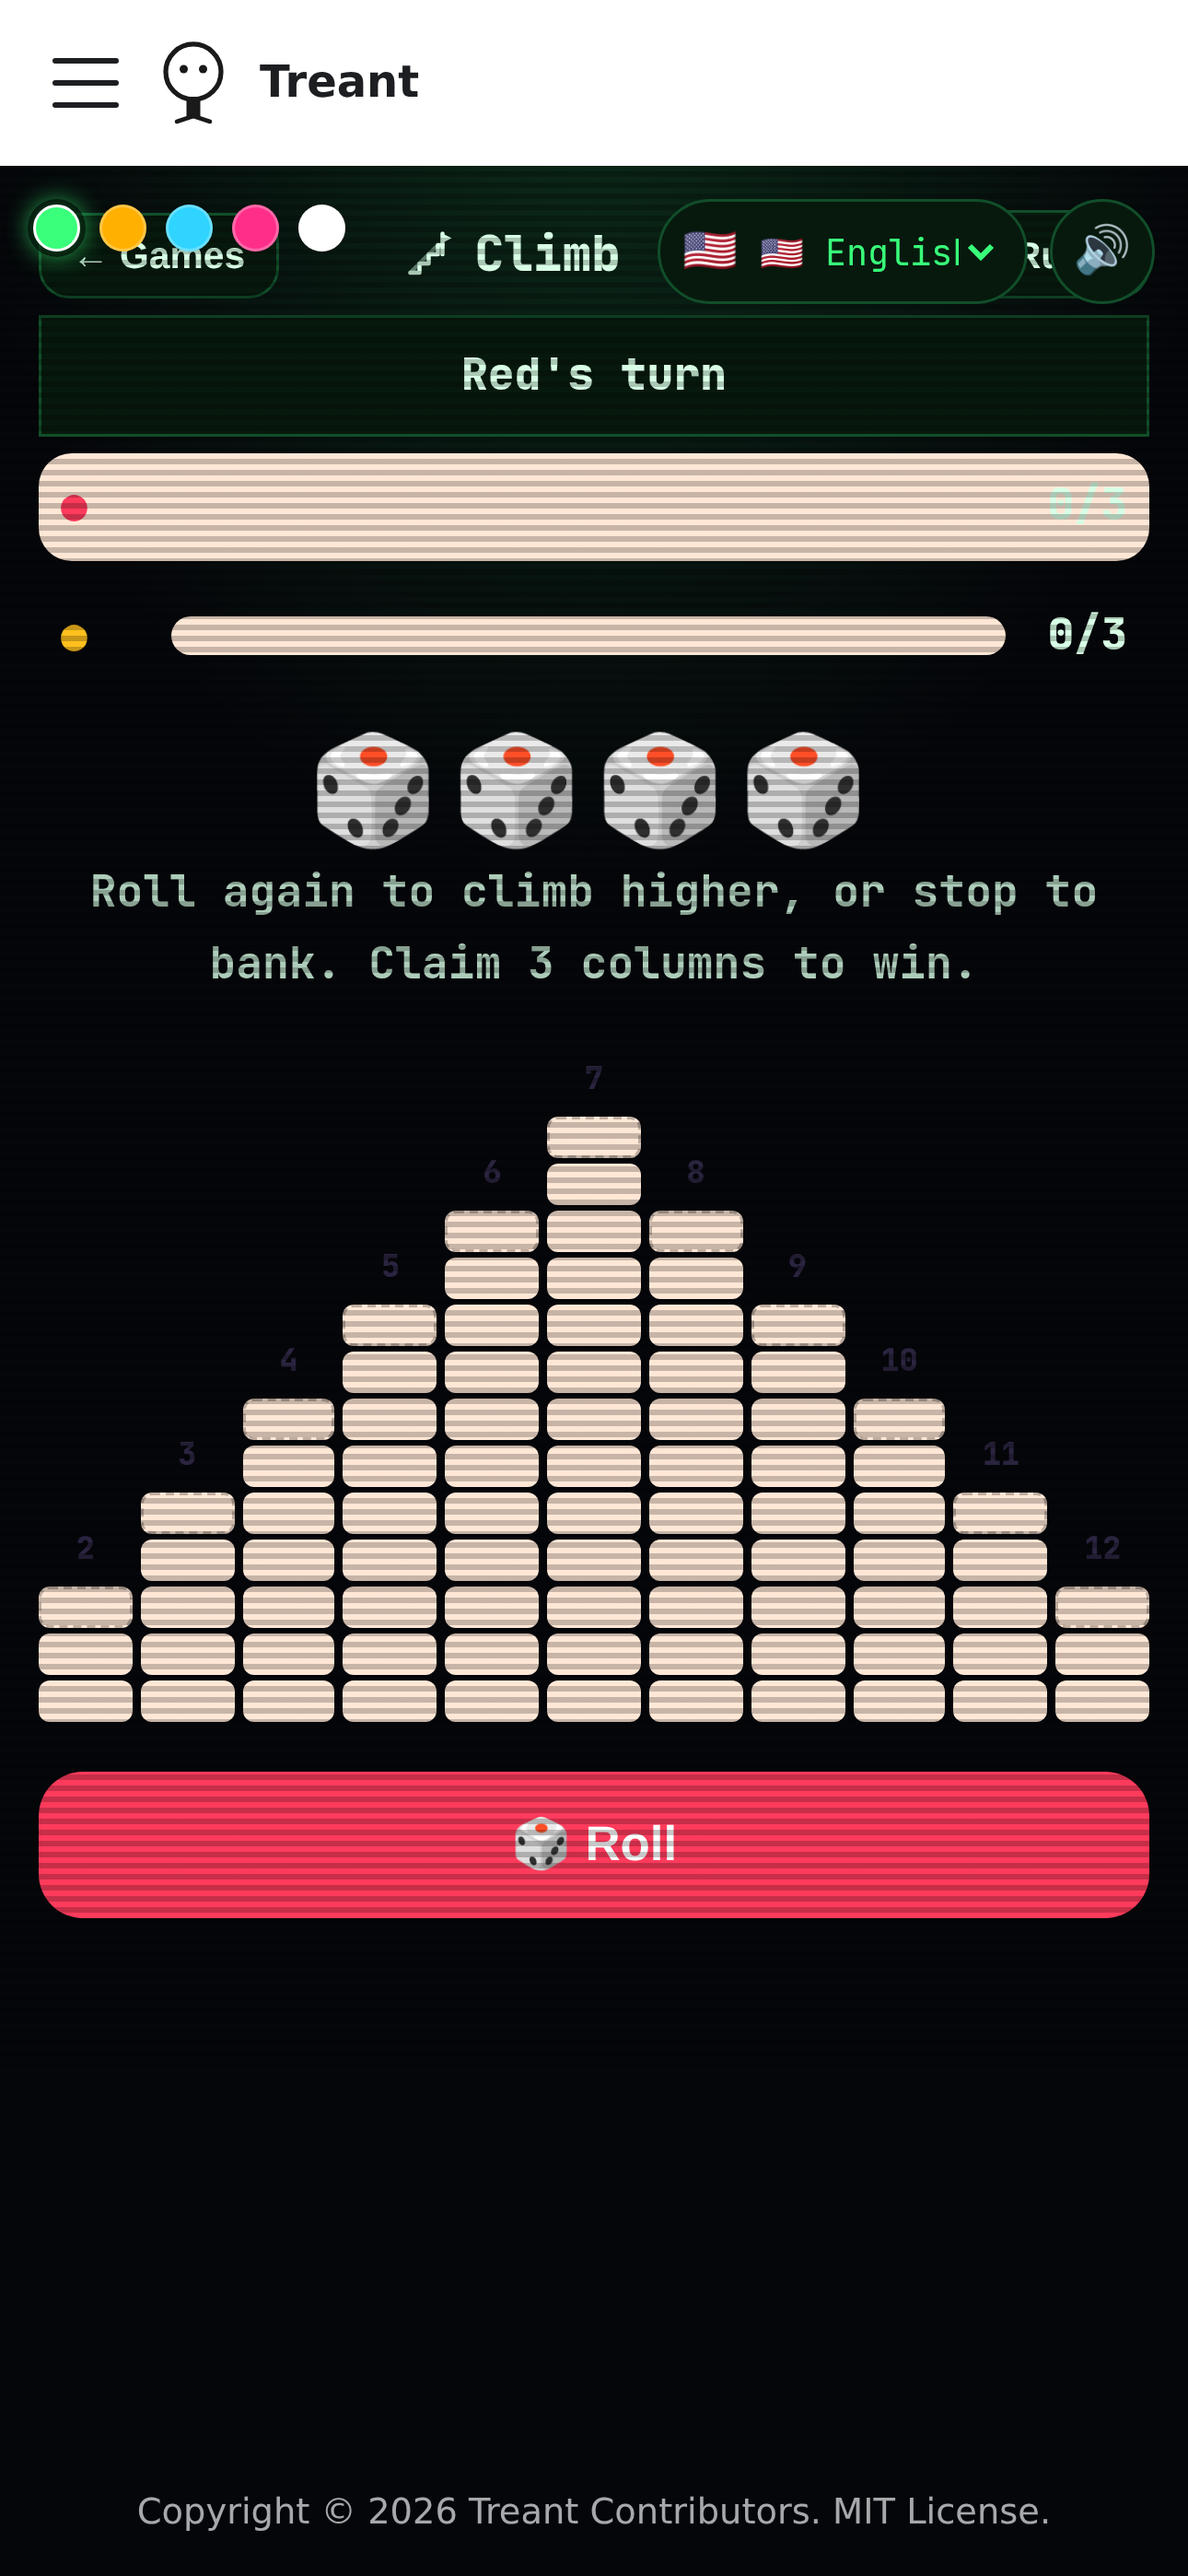
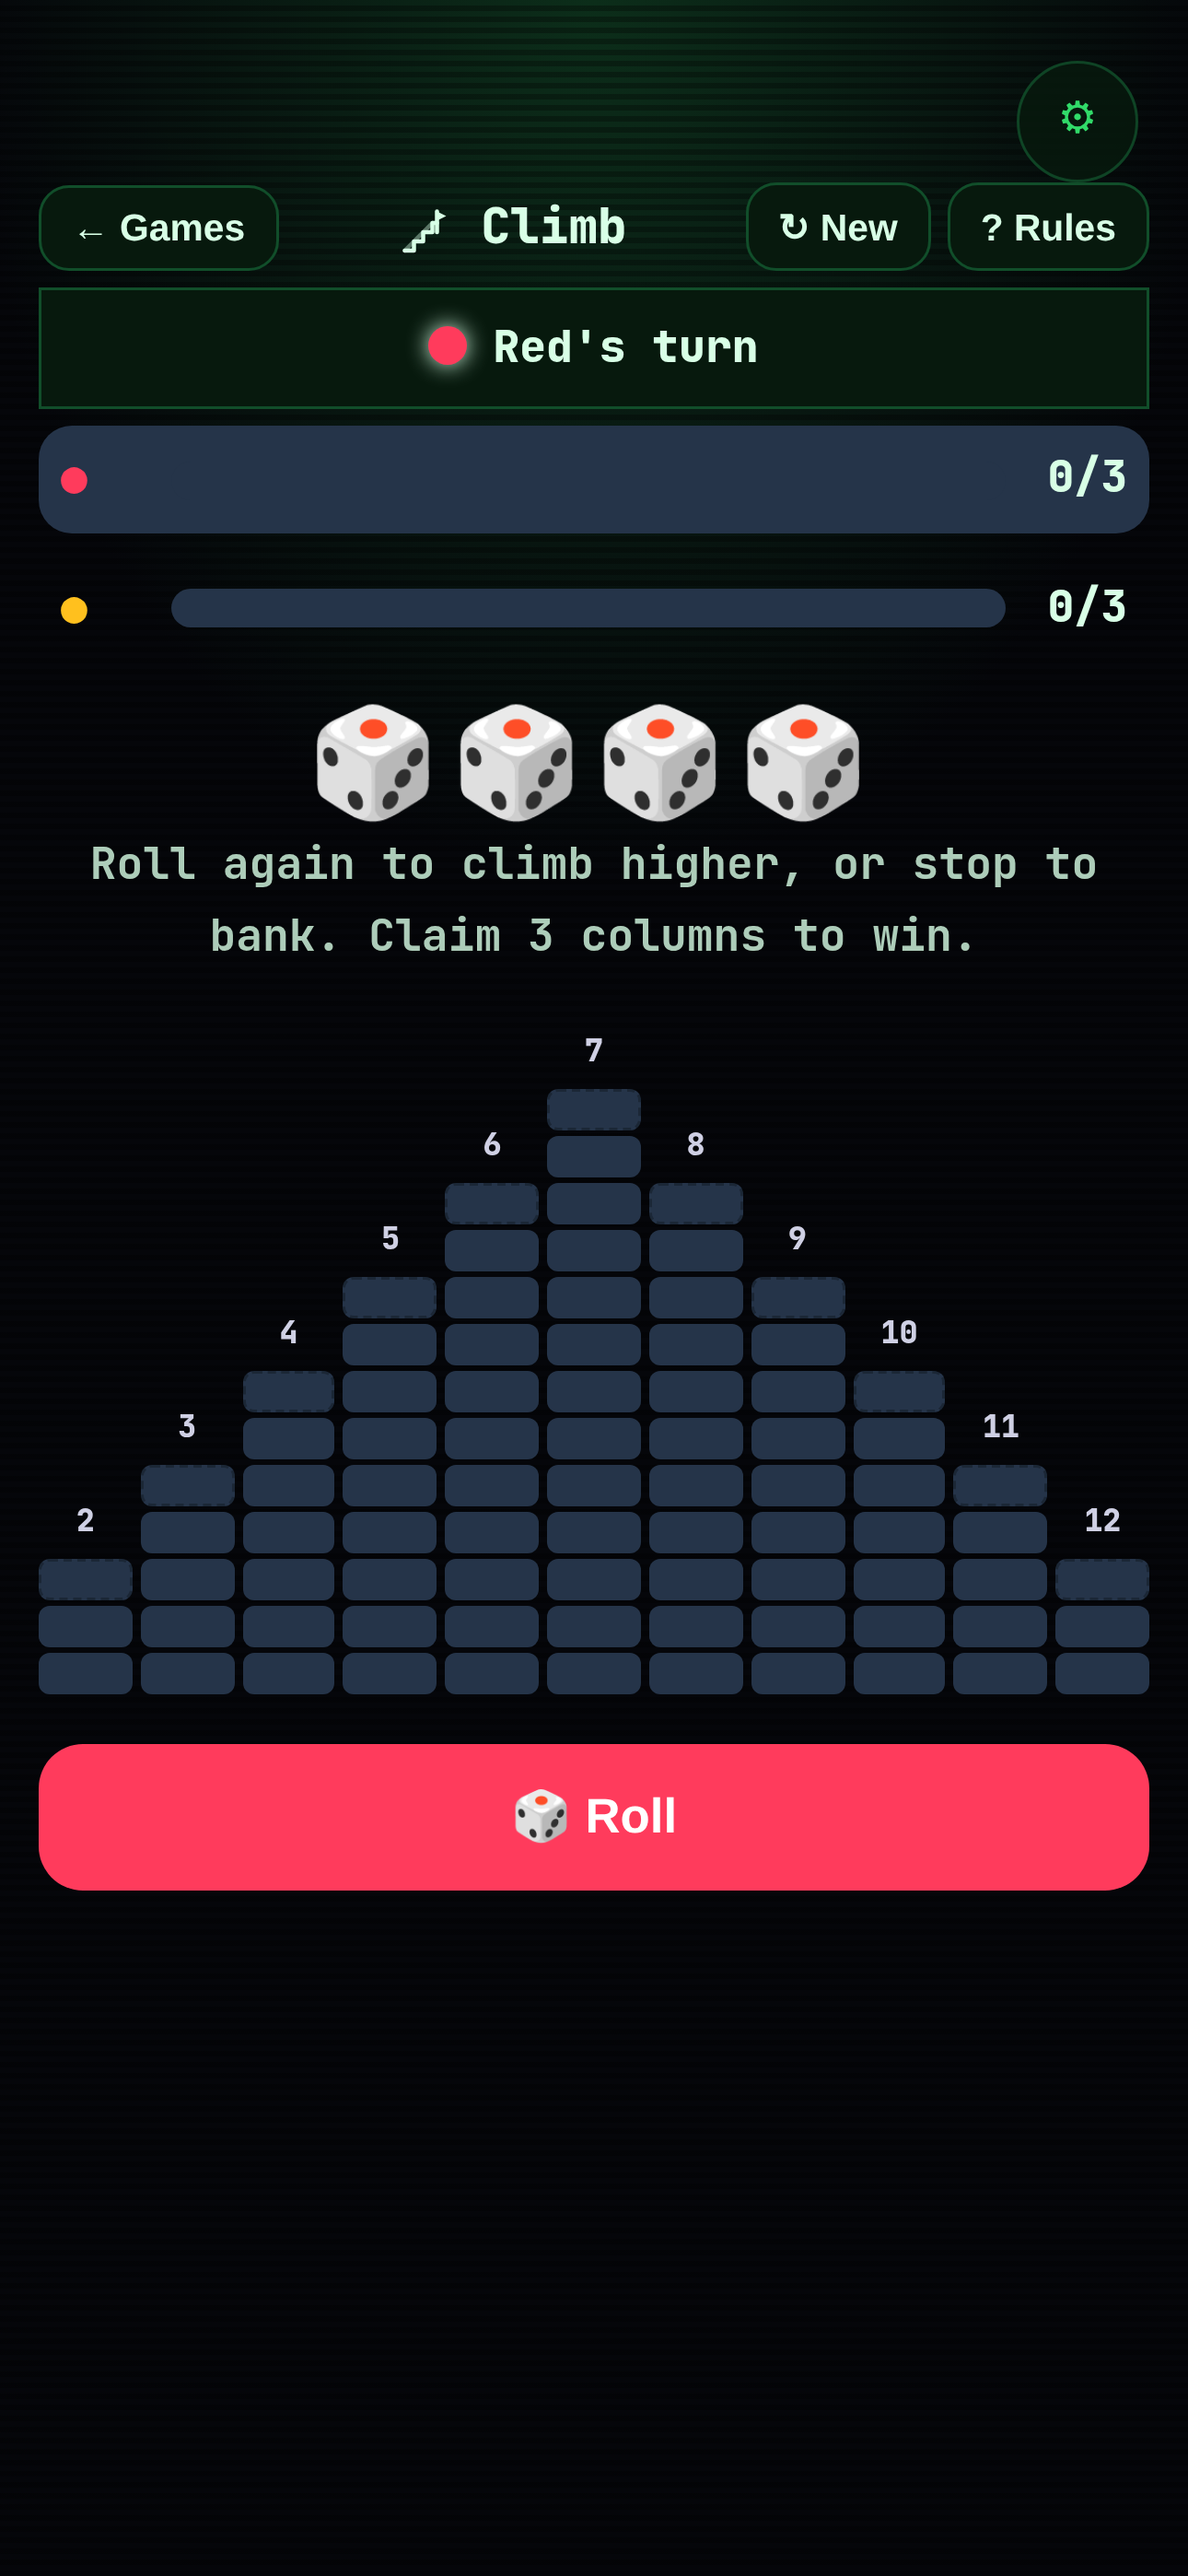
chore(app): refresh store screenshots + signed AAB to the shipped design
The store assets predated the eight UX rounds (light boards, old
chrome); screenshots recaptured from the current build and the signed
AAB rebuilt from the same (jarsigner: jar verified). SIGNING.md now
warns that sourcing the keystore env without set -a yields a silently
UNSIGNED bundle — gradle's signing config just skips.

diff --git a/app/SIGNING.md b/app/SIGNING.md
@@ -116,7 +116,9 @@ jarsigner -verify app-release.aab                # → "jar verified."
 # (apksigner verifies APKs, not AABs, e.g. the debug APK:)
 $ANDROID_HOME/build-tools/35.0.0/apksigner verify --print-certs app-debug.apk
 # or inspect the keystore entry
-source ~/.config/homenet/treant-arcade-keystore.env
+# (the env file has no `export` lines — a bare `source` keeps the vars
+#  shell-local and gradle silently builds an UNSIGNED bundle; always use set -a)
+set -a; source ~/.config/homenet/treant-arcade-keystore.env; set +a
 keytool -list -v -keystore "$TREANT_ARCADE_KEYSTORE" \
   -storepass "$TREANT_ARCADE_STORE_PASSWORD" -alias arcade
 ```
